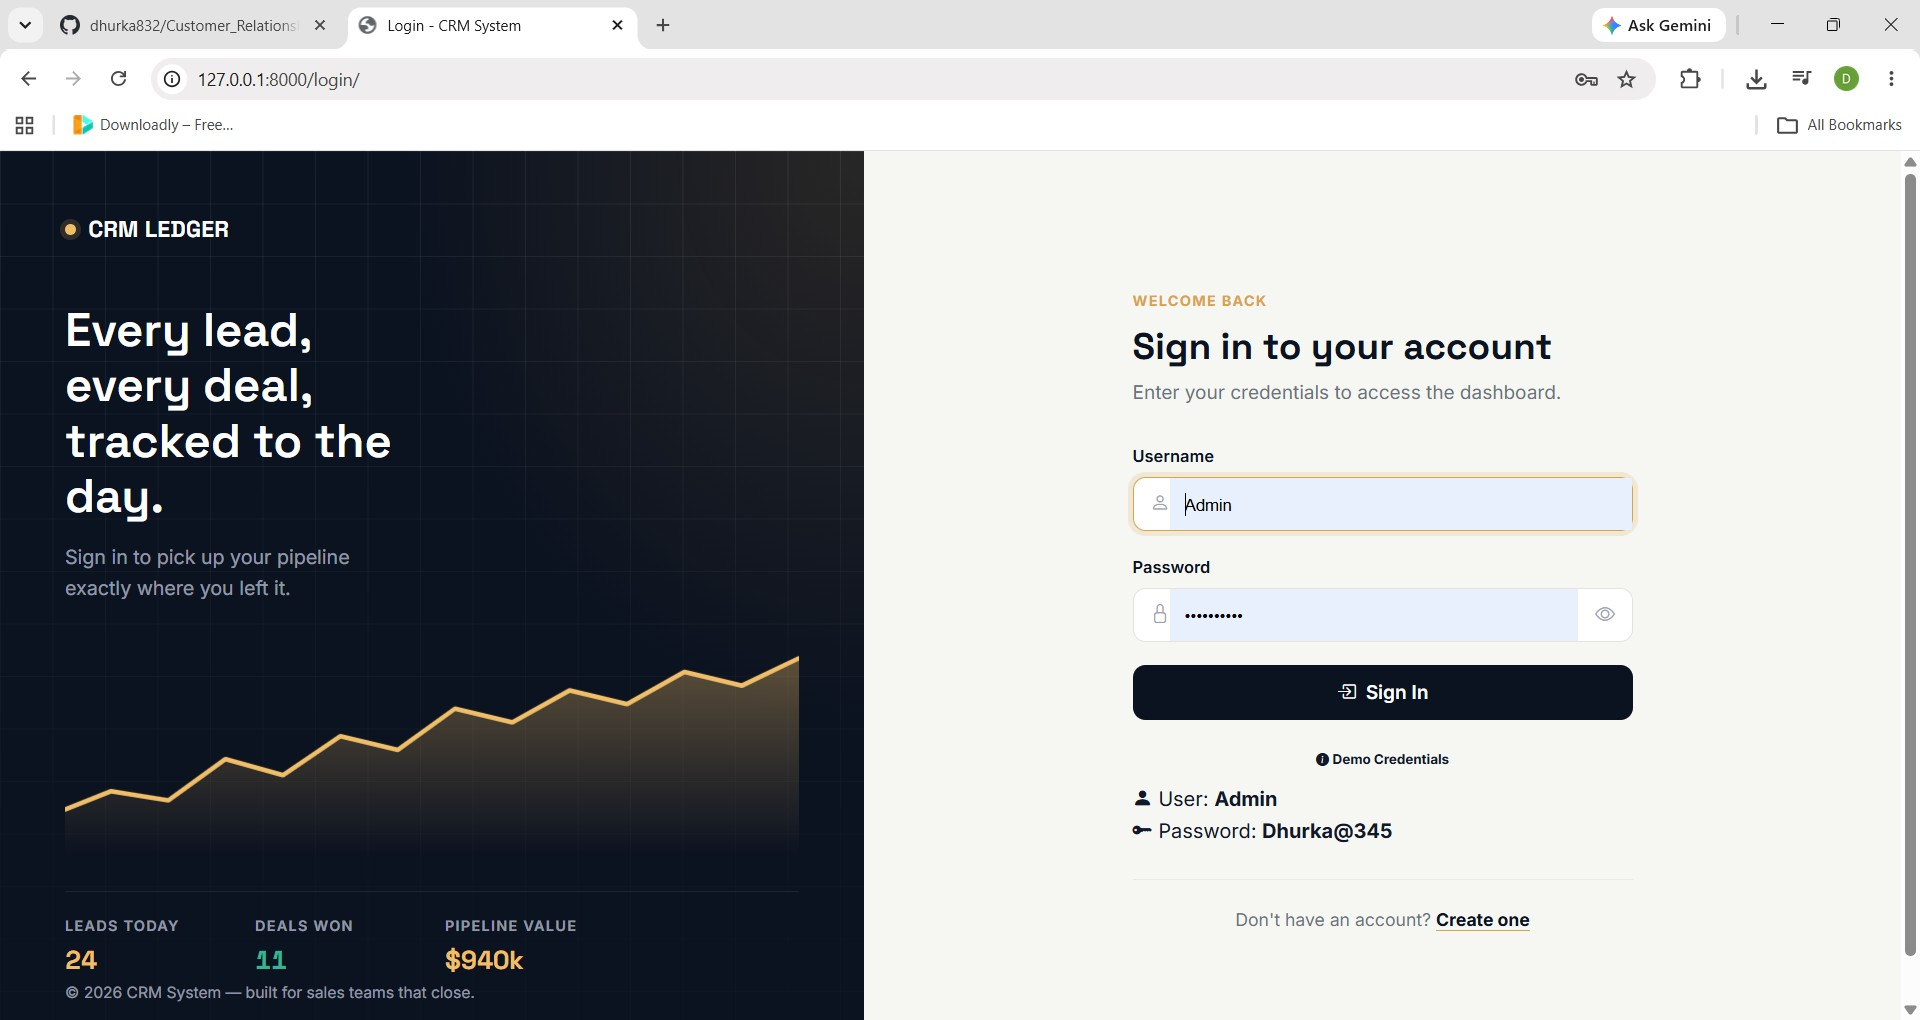
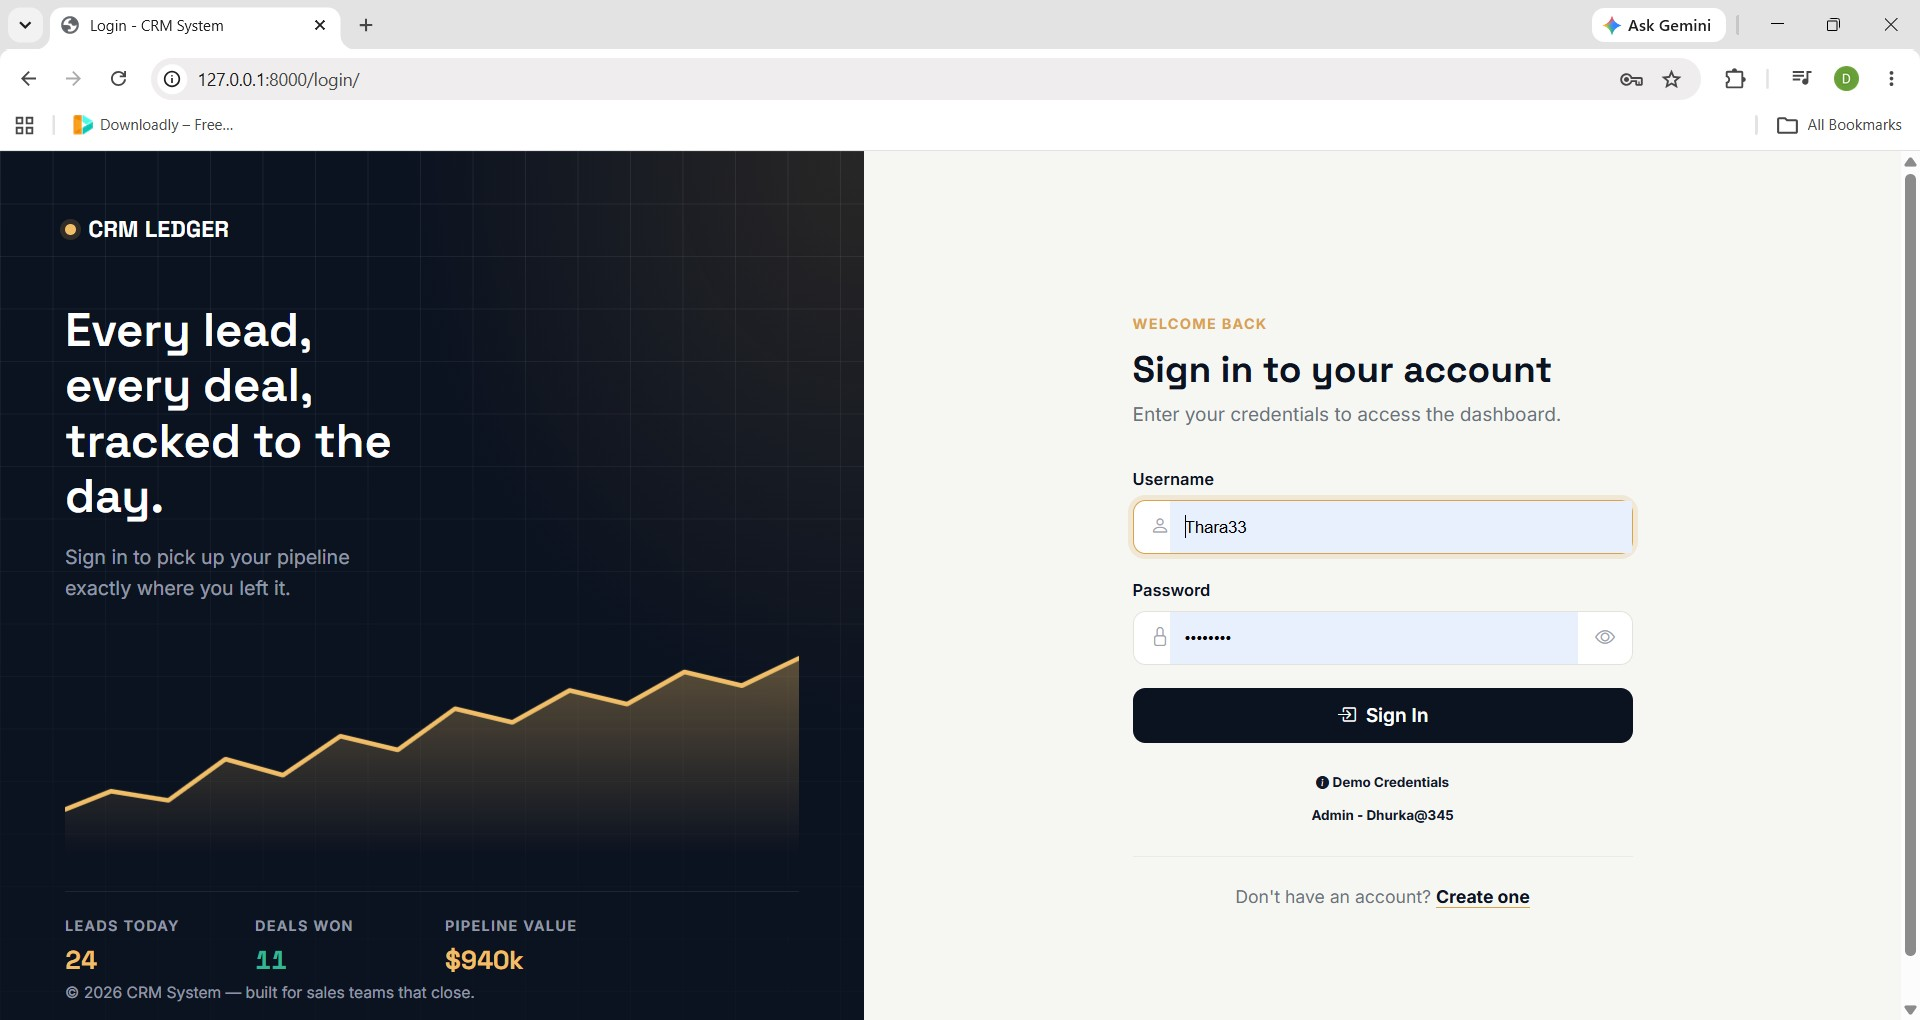
changes in screenshot

diff --git a/crm_app/templates/login.html b/crm_app/templates/login.html
@@ -120,24 +120,12 @@
 
                 <div class="demo-credentials mt-4">
                     <h6 class="text-center mb-3">
-                        <i class="bi bi-info-circle-fill"></i> Demo Credentials
+                        <i class="bi bi-info-circle-fill"></i> Demo Credentials <br><br>
+                        <div class="demo-cred-pill"
+                            onclick="fillCredentials('Admin','Dhurka@345')"> 
+                            <strong>Admin - Dhurka@345</strong>
+                        </div>
                     </h6>
-
-                   <div class="d-flex justify-content-center gap-2 flex-wrap">
-                        <div class="demo-cred-pill"
-                            onclick="fillCredentials('Admin','Dhurka@345')">
-                            <i class="bi bi-person-fill"></i>
-                            <span>User:</span>
-                            <strong>Admin</strong>
-                        </div>
-
-                        <div class="demo-cred-pill"
-                            onclick="fillCredentials('Admin','Dhurka@345')">
-                            <i class="bi bi-key-fill"></i>
-                            <span>Password:</span>
-                            <strong>Dhurka@345</strong>
-                        </div>
-                    </div>
                 </div>
 
                 <div class="auth-alt">

diff --git a/crm_app/templates/dashboard/dashboard.html b/crm_app/templates/dashboard/dashboard.html
@@ -8,7 +8,7 @@
 
     <div class="dash-greeting-row">
         <div>
-            <p class="dash-eyebrow">{% if is_admin %}Admin Overview{% else %}Sales Overview{% endif %}</p>
+            <p class="dash-eyebrow">{% if is_admin %}Admin Dashboard{% else %}Sales Overview{% endif %}</p>
             <h1 class="dash-greeting" id="dash-greeting" data-username="{{ user.first_name|default:user.username }}">
                 Welcome back.
             </h1>

diff --git a/crm_app/templates/lead/lead_list.html b/crm_app/templates/lead/lead_list.html
@@ -8,7 +8,7 @@
 
     <div class="page-header">
         <div>
-            <p class="page-eyebrow"><i class="bi bi-briefcase"></i> Pipeline</p>
+            <p class="page-eyebrow"><i class="bi bi-briefcase"></i> LEADS LEDGER</p>
             <h1 class="page-title">Leads</h1>
             <p class="page-sub">Track and manage all your sales leads</p>
         </div>

diff --git a/README.md b/README.md
@@ -4,22 +4,22 @@ A modern, full-featured Customer Relationship Management (CRM) application built
 
 ---
 
-## 🎯 Features
+## Features
 
-### 🔐 Authentication & Authorization
+### Authentication & Authorization
 - User registration and login with secure authentication
 - Role-based access control (Admin and Sales Executive)
 - JWT token-based API authentication
 - Modern, responsive login/register pages
 
-### 👥 Customer Management
+### Customer Management
 - Add, view, update, and delete customer records
 - Detailed customer profiles with contact information
 - Customer status tracking (Active/Inactive)
 - Search customers by name, email, or phone
 - Comprehensive customer history and linked activities
 
-### 📊 Lead Management
+### Lead Management
 - Create and manage sales leads linked to customers
 - Assign leads to team members
 - Track lead progress through sales pipeline
@@ -27,13 +27,13 @@ A modern, full-featured Customer Relationship Management (CRM) application built
 - Expected value tracking for revenue forecasting
 - Real-time lead status updates
 
-### ✅ Follow-Up Management
+### Follow-Up Management
 - Schedule follow-up tasks for leads
 - Add detailed notes to follow-ups
 - Mark follow-ups as completed
 - Track pending follow-ups for accountability
 
-### 📈 Dashboard & Analytics
+### Dashboard & Analytics
 - Real-time business metrics dashboard
 - Admin dashboard: system-wide overview
 - User dashboard: personal performance tracking
@@ -43,7 +43,7 @@ A modern, full-featured Customer Relationship Management (CRM) application built
   - Active follow-ups tracking
   - Potential revenue calculation
 
-### 🔌 REST API
+### REST API
 - Full RESTful API endpoints with authentication
 - Customer and lead API resources
 - Advanced filtering and searching
@@ -51,7 +51,7 @@ A modern, full-featured Customer Relationship Management (CRM) application built
 
 ---
 
-## 🗂 Project Structure
+## Project Structure
 
 ```
 crm_project/
@@ -73,7 +73,7 @@ crm_project/
 
 ---
 
-## 💻 Technology Stack
+## Technology Stack
 
 | Category | Technology |
 |----------|-----------|
@@ -88,7 +88,7 @@ crm_project/
 
 ---
 
-## 📸 Screenshots
+## Screenshots
 
 <p align="center">
   <img src="screenshots/crm-admin-dashboard.jpg" alt="Admin Dashboard View" width="400"/>
@@ -98,13 +98,13 @@ crm_project/
   <img src="screenshots/add-customer.jpg" alt="Add Customer View" width="400"/>
   <img src="screenshots/add-lead.jpg" alt="Add Lead View" width="400"/>
   <img src="screenshots/add-followup.jpg" alt="Add Followup View" width="400"/>
-  <img src="screenshots/register_crm.jpg" alt="Register View" width="400"/>
+  <img src="screenshots/crm-register.jpg" alt="Register View" width="400"/>
   <img src="screenshots/crm-login.jpg" alt="Login View" width="400"/>
 </p>
 
 ---
 
-## 🚀 Getting Started
+## Getting Started
 
 ### Prerequisites
 - **Python** 3.10 or higher (Render deploys on 3.12 — see `runtime.txt`)
@@ -165,7 +165,7 @@ crm_project/
 
 ---
 
-## 🔌 API Endpoints
+## API Endpoints
 
 All API endpoints require JWT authentication.
 
@@ -195,7 +195,7 @@ DELETE /api/leads/{id}/           # Delete lead
 
 ---
 
-## ☁ Deployment (Render)
+## Deployment (Render)
 
 This project is configured to deploy on [Render](https://render.com) as a web service.
 
@@ -212,7 +212,7 @@ SECRET_KEY=<generate a new one for production>
 DEBUG=False
 DATABASE_URL=<your Render PostgreSQL internal connection string>
 ```
-## 👤 User Roles & Permissions
+## User Roles & Permissions
 
 ### Admin (Superuser)
 - View all customers and leads
@@ -230,7 +230,7 @@ DATABASE_URL=<your Render PostgreSQL internal connection string>
 
 ---
 
-## 📖 Usage 
+## Usage 
 
 ### Creating a Customer
 1. Login to the application
@@ -268,7 +268,7 @@ DATABASE_URL=<your Render PostgreSQL internal connection string>
 
 ---
 
-## 🧠 What I Learned
+## What I Learned
 
 Through this project, I gained hands-on experience with:
 
